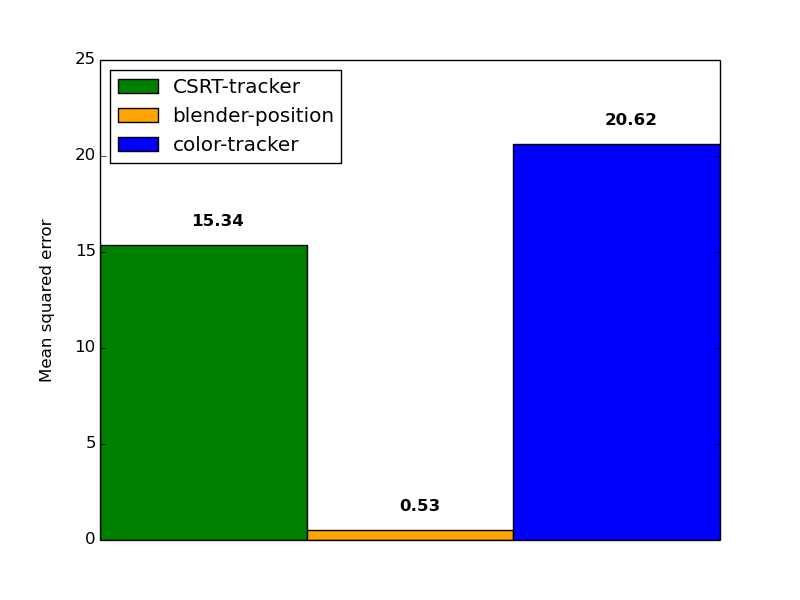
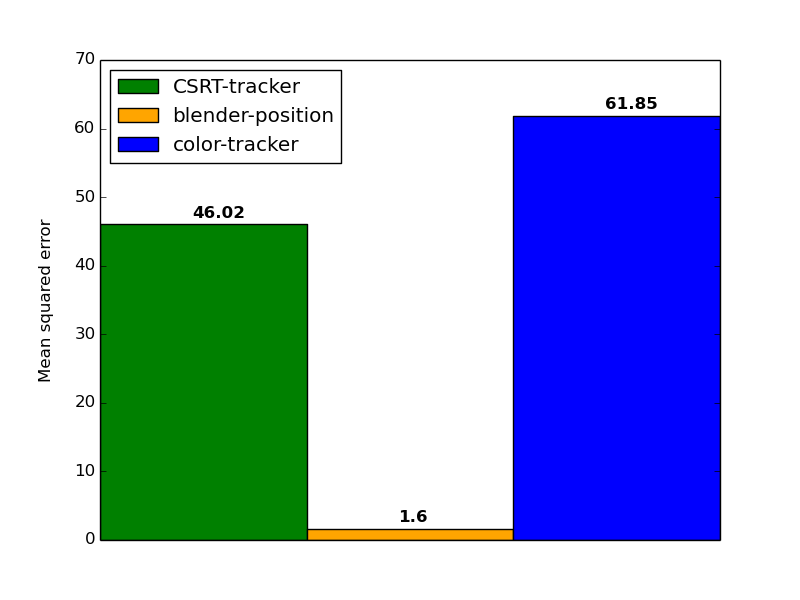
calculate distance with euclidean norm elementwise + plot

diff --git a/blender-racetrack/results/plot.py b/blender-racetrack/results/plot.py
@@ -109,7 +109,11 @@ for result_path in results:
             result_path, 'car_transformation.p3d'), delimiter=';')
 
         # calculate MSE
-        mse = np.mean(np.square(points_3D - blender_car_points_3D))
+        # print distance to blender_car_points_3D
+        print(np.linalg.norm(
+            points_3D - blender_car_points_3D))
+        mse = np.mean(np.square(np.linalg.norm(
+            points_3D - blender_car_points_3D, ord=2, axis=1)))
         # dir_name
         dir_name = os.path.basename(result_path)
         print(dir_name, mse)
@@ -137,7 +141,8 @@ for result_path in results:
             point_3D += delta_points_3D
 
         # calculate MSE
-        mse = np.mean(np.square(points_3D - blender_car_points_3D))
+        mse = np.mean(np.square(np.linalg.norm(
+            points_3D - blender_car_points_3D, ord=2, axis=1)))
         # dir_name
         dir_name = os.path.basename(result_path)
         print(dir_name, mse)
@@ -147,9 +152,35 @@ for result_path in results:
         plt.ylabel("Mean squared error", labelpad=15)
         plt.xticks([])
 
+# Display euclidean distance to blender_car_points_3D
+fig = plt.figure(5)
+i = 0
+for result_path in results:
+    # check if result is a directory
+    if os.path.isdir(result_path):
+        i += 1
+        points_3D = np.loadtxt(os.path.join(
+            result_path, 'car_transformation.p3d'), delimiter=';')
+
+        # normalize points in relation to first car position
+        # calculate delta to first car position
+        delta_points_3D = blender_car_points_3D[0] - points_3D[0]
+        for point_3D in points_3D:
+            point_3D += delta_points_3D
+
+        # calculate distances
+        distances = np.linalg.norm(
+            points_3D - blender_car_points_3D, ord=2, axis=1)
+        # dir_name
+        dir_name = os.path.basename(result_path)
+        plt.plot(distances, label=dir_name, color=color[i % 3])
+        plt.legend(loc='best')
+        plt.ylabel("euclidean distances", labelpad=15)
+        plt.xlabel("frame")
+
 
 # plot optimization error
-fig = plt.figure(5)
+fig = plt.figure(6)
 i = 0
 for result_path in results:
     # check if result is a directory
